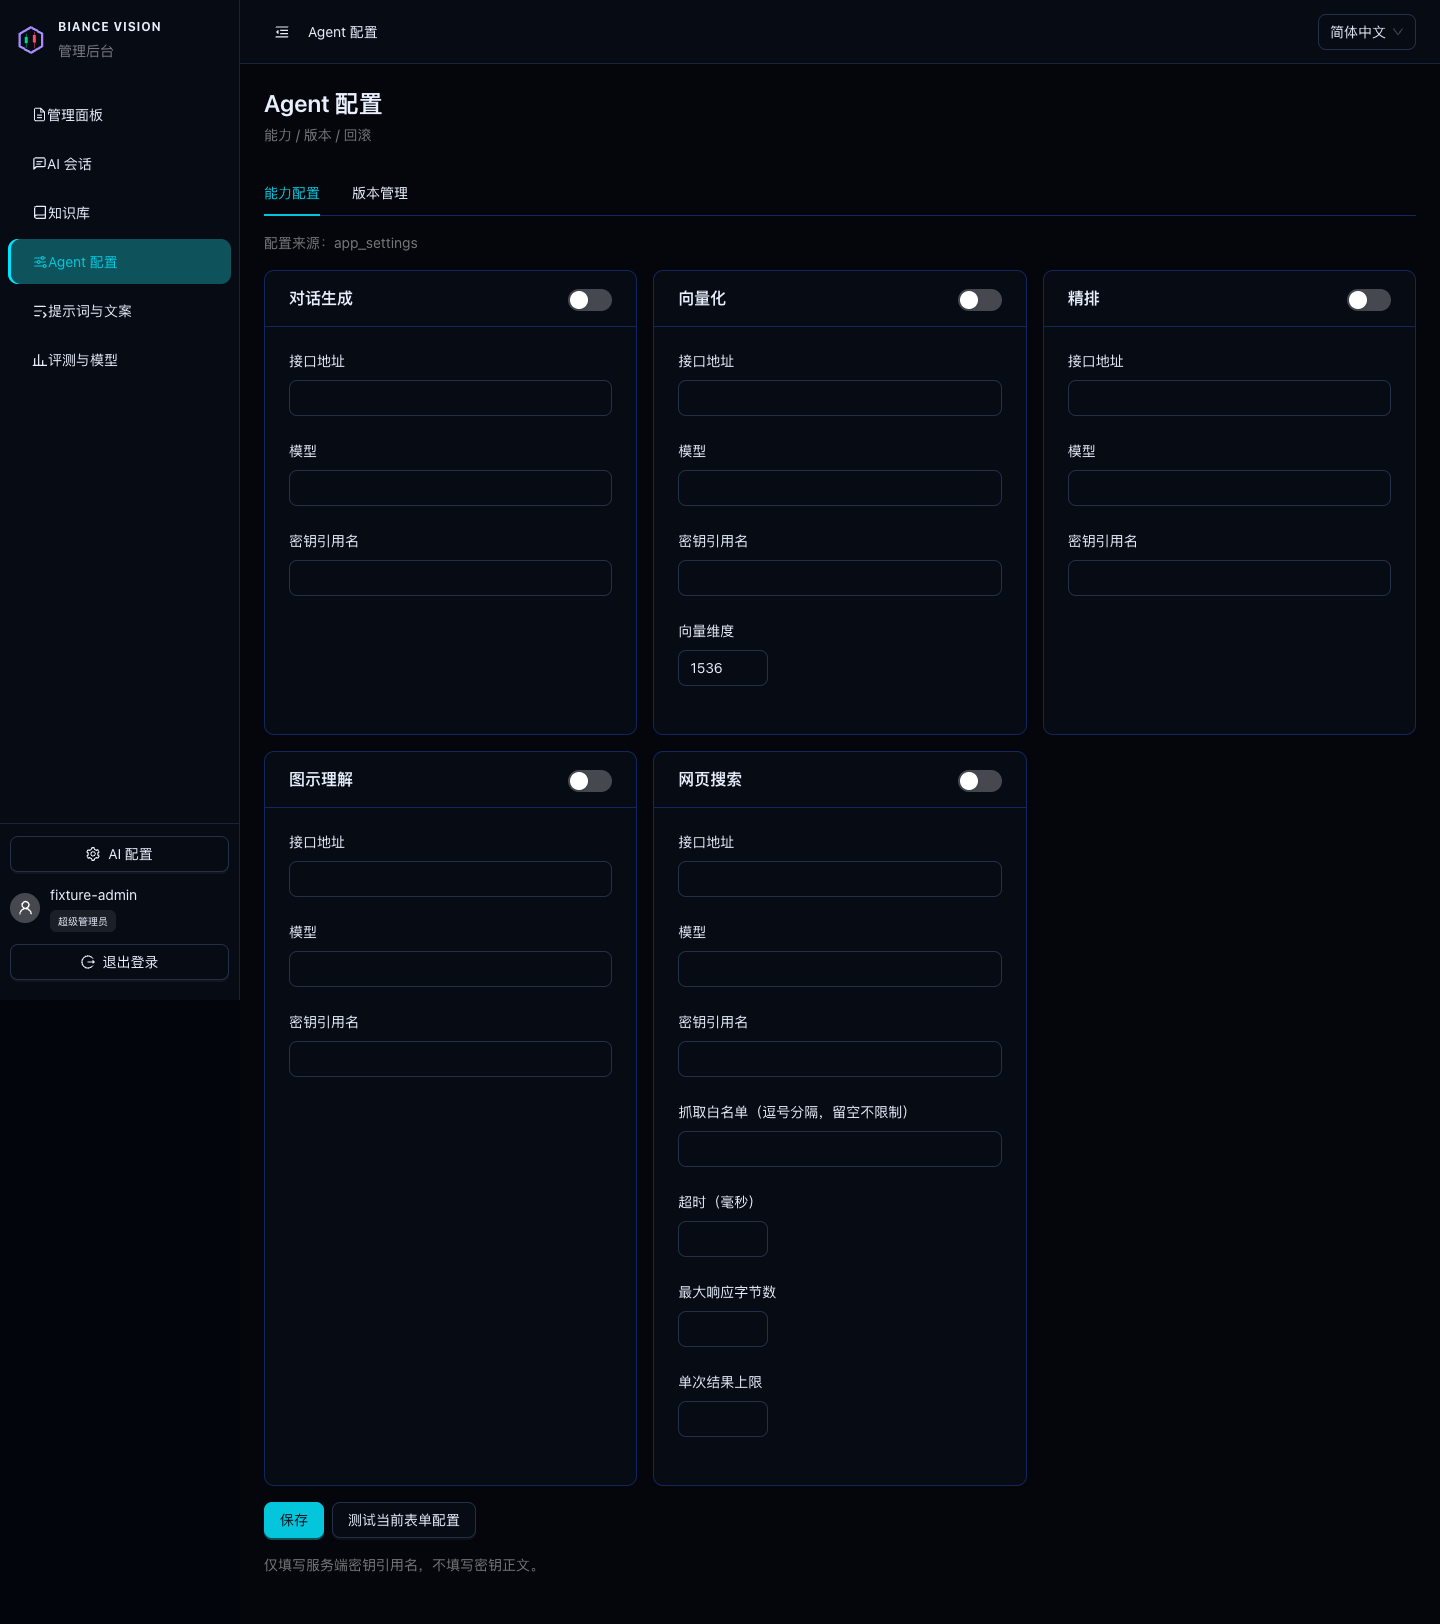
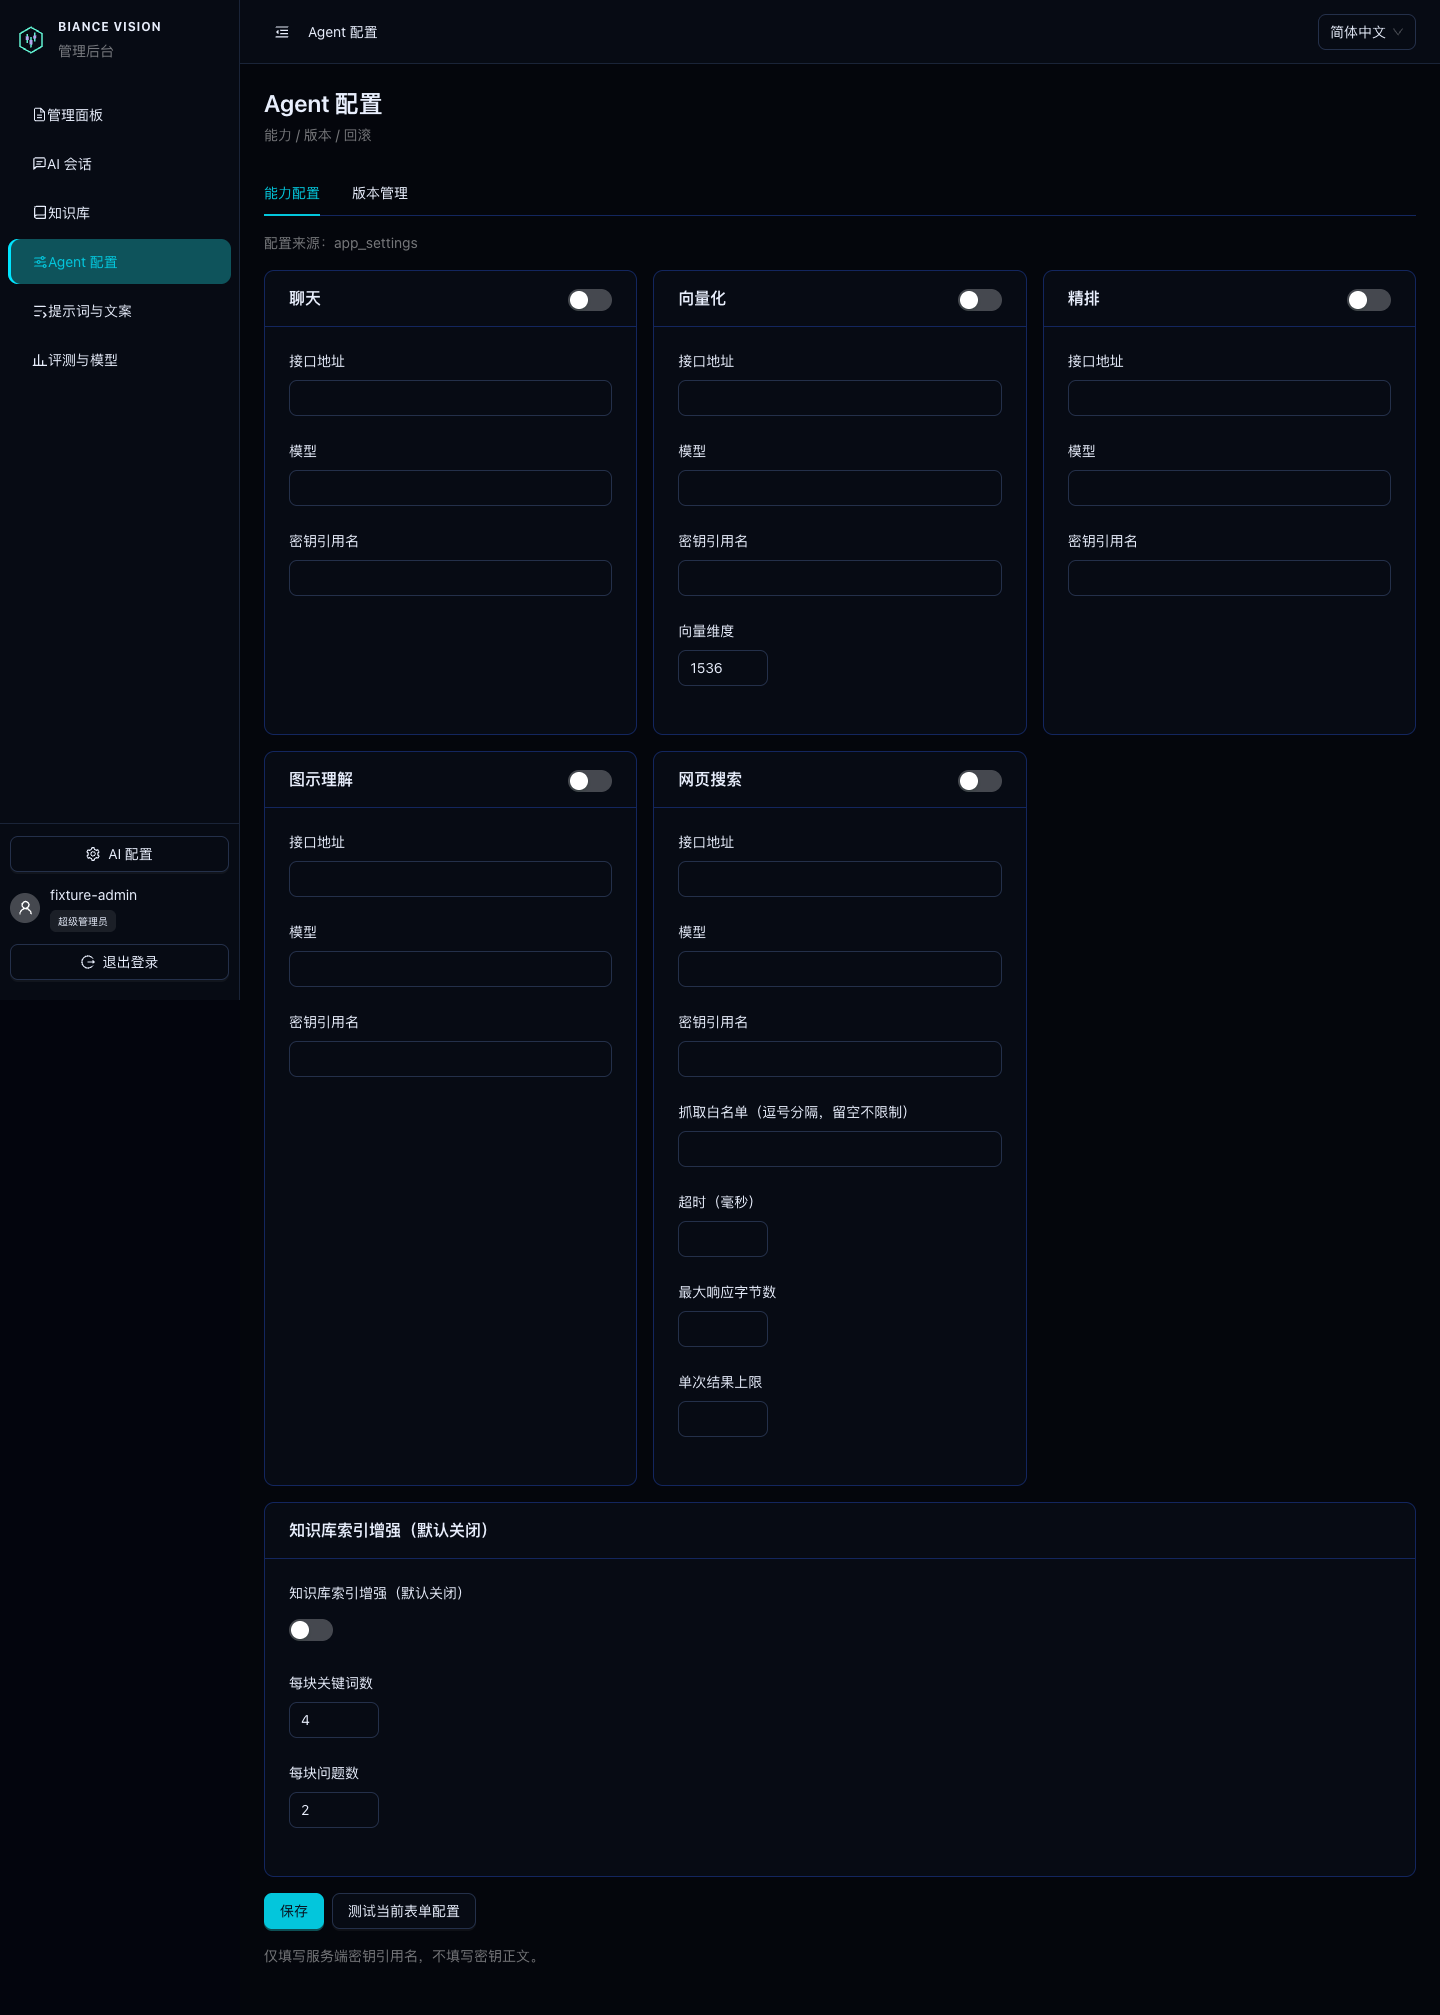
docs(release): record integrated gate and refreshed admin visual evidence

diff --git a/docs/releases/v0.17.2-integration.md b/docs/releases/v0.17.2-integration.md
@@ -23,3 +23,5 @@ Verification uses an isolated PostgreSQL container on port 5544, isolated data d
 The production origin is configured as a GitHub repository variable and is used at build and runtime. Existing domains are retained. Google/Bing verification tokens remain optional and are not fabricated. Deployment does not imply search indexing, AI citations, customer trials or model quality validation.
 
 Final verification results, immutable image references and deployment outcome are appended after execution. Private infrastructure snapshots and customer instructions are kept outside the public repository.
+
+Local complete `pnpm release:gate` passed without skipping DB steps: workspace types, engine and product checks, admin gate, login regression (37 assertions), knowledge integration and permissions, dual-entry routing, DB grants, research integration, public website contracts, isolated provisioning/allowances, website build, admin browser suite (28 tests) and dual web builds. `check:i18n` reports zero dictionary key mismatch. Public website plus same-origin terminal browser checks passed 14 tests; the admin delivery check is also included in the dedicated admin suite. Desktop homepage and 360px knowledge screenshots were visually reviewed.

diff --git a/docs/admin-ui/implementation.md b/docs/admin-ui/implementation.md
@@ -71,3 +71,8 @@ Playwright 使用受控接口，不访问生产数据。覆盖导航、深链、
 - 最终上线前完成真实隔离环境的业务流程验收及 W4 清单。生产仅做登录、导航、只读展示检查。
 - 既有 v0.16.2 不覆盖。发布时选择下一可用 patch，记录旧管理镜像 digest、有效 Compose 和本次不可变镜像。
 - 只升级通过本批验收的管理端服务。验证失败恢复原管理镜像，不回滚共享数据库或已合并的 W4 功能。
+
+
+## Integrated W4 completion (2026-10-24)
+
+The integrated release branch completes the previously pending homepage: users/audit/website URL views, independent provisioning and allowance/password dialogs, dirty-state protection, ephemeral credential delivery and canonical W4 brand resource. The last legacy boundary and stylesheet were removed. All 28 admin browser checks and the complete integrated release gate passed locally. R3 knowledge enhancement is configured independently from model-provider capabilities. See docs/releases/v0.17.2-integration.md for current integration and deployment evidence; earlier pending-W4 descriptions above document the earlier delivery boundary.
